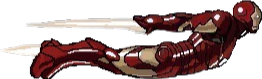
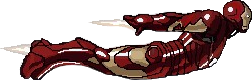
Vários avanços na animação do thanos

diff --git a/main.py b/main.py
@@ -1,5 +1,7 @@
-import pygame, random, json, tkinter as tk
+import pygame, random, time, asyncio
 from recursos.funcoes import inicializarBancoDeDados, colisao_retangulos, backGround, move_horizontal
+from recursos.animation import SpriteAnimator
+from recursos.gif import extract_frames
 
 pygame.init()
 inicializarBancoDeDados()
@@ -16,13 +18,15 @@ spr_start_b = pygame.transform.scale(spr_start_b, (300, 50))
 spr_quit_b = pygame.image.load("assets/quit_b.png")
 spr_quit_b = pygame.transform.scale(spr_quit_b, (300, 50))
 
-spr_iron = pygame.image.load("assets/iron_soaring.png")
+spr_iron_soaring = pygame.image.load("assets/iron_soaring.png")
+spr_iron_boosting = pygame.image.load("assets/iron_boosting.png")
 spr_iron_bg = pygame.image.load("assets/iron_start.jpg")
 spr_far = pygame.image.load("assets/back.png")
 spr_middle = pygame.image.load("assets/mid.png")
 spr_near = pygame.image.load("assets/front.png")
 spr_dead = pygame.image.load("assets/fundoDead.png")
 spr_rocket = pygame.image.load("assets/missile.png")
+spr_than = pygame.image.load("assets/than.gif")
 snd_rocket = pygame.mixer.Sound("assets/missile.wav")
 snd_explosion = pygame.mixer.Sound("assets/explosao.wav")
 font_title = pygame.font.Font("assets/Ethnocentric Rg.otf", 50)
@@ -41,11 +45,37 @@ white = (255,255,255)
 black = (0, 0 ,0 )
 cinza = (100, 100, 100)
 
+than_x = 750
+than_y = 150
+
 b_n = 0
 start = 0
 dark_overlay = pygame.Surface(screen.get_size())
 dark_overlay.fill((0, 0, 0))
 dark_overlay.set_alpha(100)  # Valor entre 0 (transparente) e 255 (opaco)
+
+extract_frames("assets/than_rock.gif", "assets/frames_thanrock")
+extract_frames("assets/than_handy.gif", "assets/frames_handy")
+
+than_handy = SpriteAnimator(
+    images=[pygame.image.load(f"assets/frames_handy/frame_{i:03d}.png") for i in range(1, 5)],
+    pos=(than_x, than_y),
+    size=(450, 500),
+    animation_speed=7,
+    flip=True
+)
+than_rock = SpriteAnimator(
+    images=[pygame.image.load(f"assets/frames_thanrock/frame_{i:03d}.png") for i in range(1, 10)],
+    pos=(than_x, than_y),
+    size=(450, 500),
+    animation_speed=7,
+    flip=True
+)
+
+async def than_handy_time():
+    await asyncio.sleep(10)
+
+    than_handy.update(screen)
 
 def menu(start,b_n):
     b_width = 300
@@ -113,20 +143,22 @@ def game():
     air_resistance = 10
     debug_mode = False
     pause = False
-    char_x = 400
+    char_x = 100
     char_y = 300
     move_x  = 0
     move_y  = 0
-    rocket_x = 400
-    rocket_y = -240
-    move_rocket = 1
+    rocket_x = 1240
+    rocket_y = 300
+    move_rocket = -10
+    spr_iron = spr_iron_soaring
     pygame.mixer.Sound.play(snd_rocket)
     pygame.mixer.music.play(-1)
-    char_width = spr_iron.get_width()
-    char_height = spr_iron.get_height()
+    char_width = spr_iron_soaring.get_width()
+    char_height = spr_iron_soaring.get_height()
     rocket_width  = spr_rocket.get_width()
     rocket_height  = spr_rocket.get_height()
     while True:
+
         for evento in pygame.event.get():
             if evento.type == pygame.QUIT:
                 quit()
@@ -188,19 +220,23 @@ def game():
                     if pause == False:
                             break
         
-        char_x, char_y = move_horizontal(char_x, char_y, screen, char_height, char_width, move_x, move_y, air_resistance)
+        char_x, char_y, spr_iron = move_horizontal(char_x, char_y, screen, char_height, char_width, move_x, move_y, air_resistance, spr_iron, spr_iron_boosting, spr_iron_soaring)
 
         x_far, x_middle, x_near = backGround(x_far, x_middle, x_near, screen, spr_far, spr_middle, spr_near, white)
 
-        rocket_y = rocket_y + move_rocket
-        if rocket_y > 500:
-            rocket_y = -240
-            move_rocket = move_rocket + 1
-            rocket_x = random.randint(0,800)
+        rocket_x = rocket_x + move_rocket
+        if rocket_x < 0:
+            rocket_x = 1240
+            move_rocket += 1
+            rocket_y = random.randint(0,600)
             pygame.mixer.Sound.play(snd_rocket)
             
             
         screen.blit(spr_rocket, (rocket_x, rocket_y) )
+        
+        screen.blit(spr_than, (than_x, than_y))
+
+        asyncio.run(than_handy_time())
         
         #Vida
         
@@ -219,7 +255,9 @@ def game():
                 f"Movimento do Personagem: ({move_x}, {move_y})",
                 f"Posição do Foguete: ({rocket_x}, {rocket_y})",
                 f"Movimento do Foguete: {move_rocket}",
-                f"Colisão: {colisao_retangulos(char_x, char_y, char_width, char_height, rocket_x, rocket_y, rocket_width, rocket_height)}"
+                f"Colisão: {colisao_retangulos(char_x, char_y, char_width, char_height, rocket_x, rocket_y, rocket_width, rocket_height)}",
+                f"posição thanos: ({than_handy.x}, {than_handy.y})",
+                f"movimento thanos: {than_handy.move_speed}",
             ]
             for i, line in enumerate(debug_lines):
                 text = font_debug.render(line, True, (black))

diff --git a/recursos/funcoes.py b/recursos/funcoes.py
@@ -66,7 +66,7 @@ def backGround(x_far, x_middle, x_near, screen, spr_far, spr_middle, spr_near, w
     
     return x_far, x_middle, x_near
 
-def move_horizontal(obj_x, obj_y, screen, obj_height, obj_width, move_x, move_y, air_resistance):
+def move_horizontal(obj_x, obj_y, screen, obj_height, obj_width, move_x, move_y, air_resistance, obj_spr, obj_moving, obj_not_moving):
     keys = pygame.key.get_pressed()
     move_x = keys[pygame.K_SPACE]
     move_y = keys[pygame.K_s] - keys[pygame.K_w]
@@ -76,13 +76,20 @@ def move_horizontal(obj_x, obj_y, screen, obj_height, obj_width, move_x, move_y,
         air_resistance = 0
     elif obj_x >= screen.get_width() - obj_width - 1 and move_x >= 0:
         move_x = 0
-    if obj_y <= 0 and move_y <= 0:
+    elif obj_y <= 0 and move_y <= 0:
         move_y = 0
-    if obj_y >= screen.get_height() - obj_height - 1 and move_y >= 0:
+    elif obj_y >= screen.get_height() - obj_height - 1 and move_y >= 0:
         move_y = 0
+    
+    if move_x != 0 or move_y != 0:
+        if move_x > 0:
+            obj_spr = obj_moving
+        elif move_x < 0:
+            obj_spr = obj_not_moving
+    else:
+        obj_spr = obj_not_moving
+        
     obj_x += move_x * 25
     obj_y += move_y * 15
     obj_x -= air_resistance
-    return obj_x, obj_y
-
-
+    return obj_x, obj_y, obj_spr

diff --git a/recursos/animation.py b/recursos/animation.py
@@ -1,0 +1,24 @@
+# sprite_animator.py
+import pygame
+
+class SpriteAnimator:
+    def __init__(self, images: list, pos: tuple, size: tuple, animation_speed: int, flip: bool = False):
+        self.images = [pygame.transform.scale(img, size) for img in images]
+        self.x, self.y = pos
+        self.size = size
+        self.animation_speed = animation_speed
+        self.index = 0
+        self.clock = pygame.time.Clock()
+        self.moving = False
+        self.flip = flip
+        if self.flip:
+            self.images = [pygame.transform.flip(img, True, False) for img in self.images]
+
+    def update(self, window):
+        self.clock.tick(self.animation_speed)
+        
+        self.index += 1
+        if self.index >= len(self.images):
+           self.index = 0
+
+        window.blit(self.images[self.index], (self.x, self.y))

diff --git a/recursos/gif.py b/recursos/gif.py
@@ -1,0 +1,9 @@
+from PIL import Image, ImageSequence
+import os
+
+def extract_frames(gif_path, output_folder):
+    os.makedirs(output_folder, exist_ok=True)
+    with Image.open(gif_path) as img:
+        for i, frame in enumerate(ImageSequence.Iterator(img)):
+            frame.save(os.path.join(output_folder, f"frame_{i:03d}.png"))
+    print(f"Frames salvos em: {output_folder}")

diff --git a/setup.py b/setup.py
@@ -1,3 +1,4 @@
+
 # pip install cx_freeze
 import cx_Freeze
 executaveis = [ 
@@ -11,6 +12,3 @@ cx_Freeze.setup(
         }
     }, executables = executaveis
 )
-
-# python setup.py build
-# python setup.py bdist_msi
